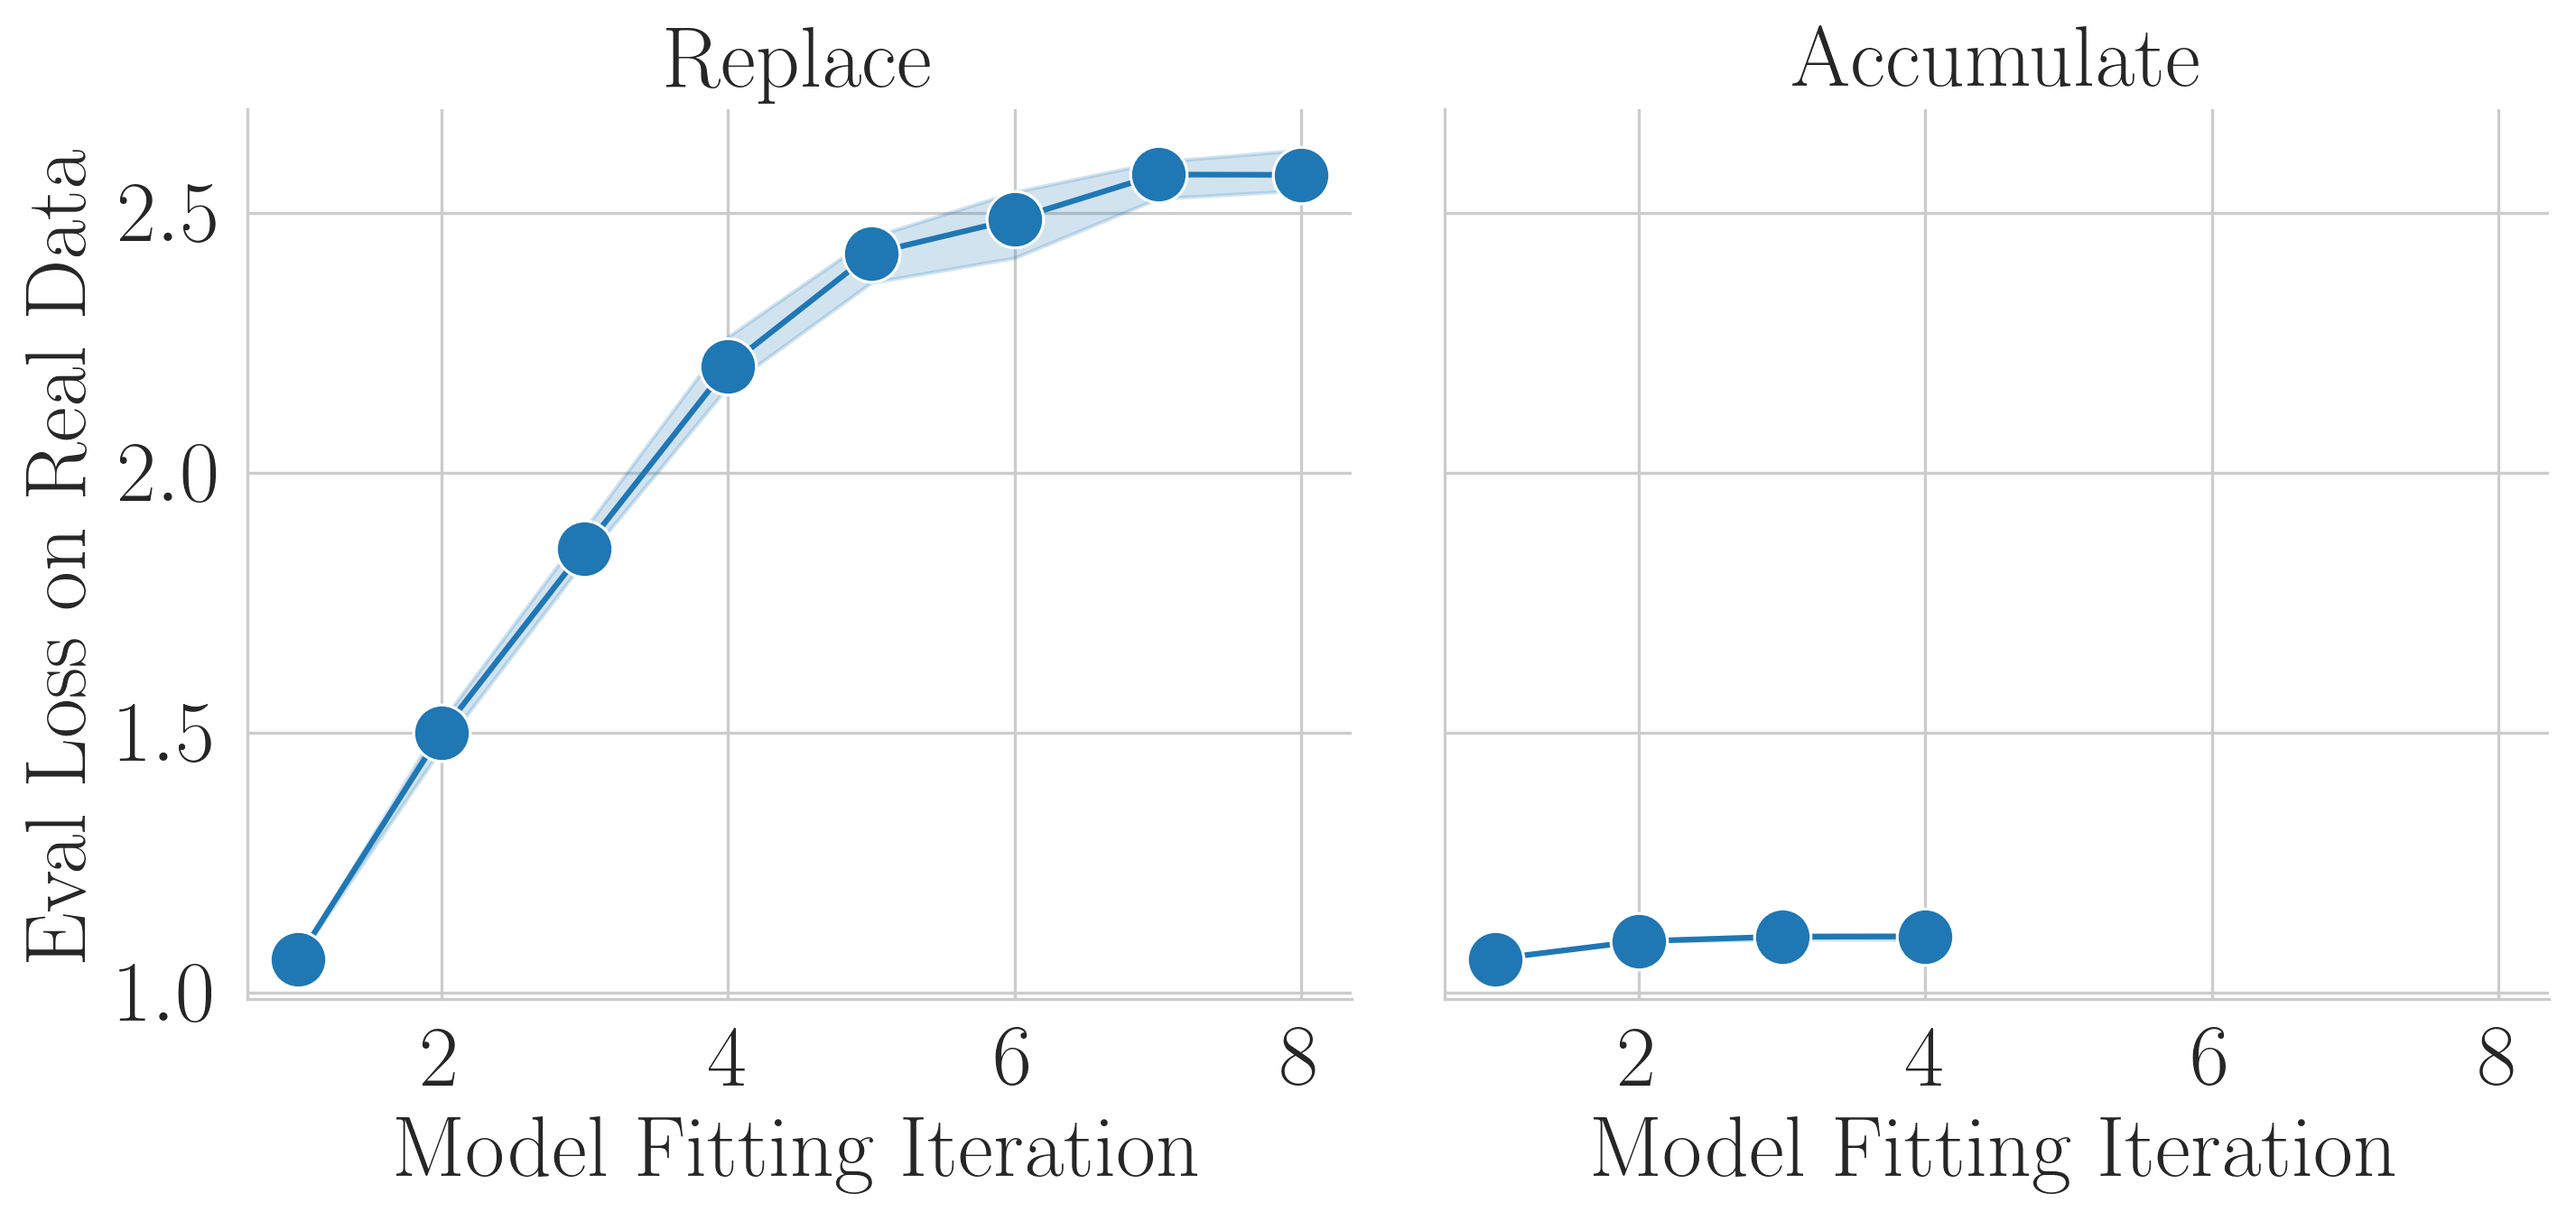
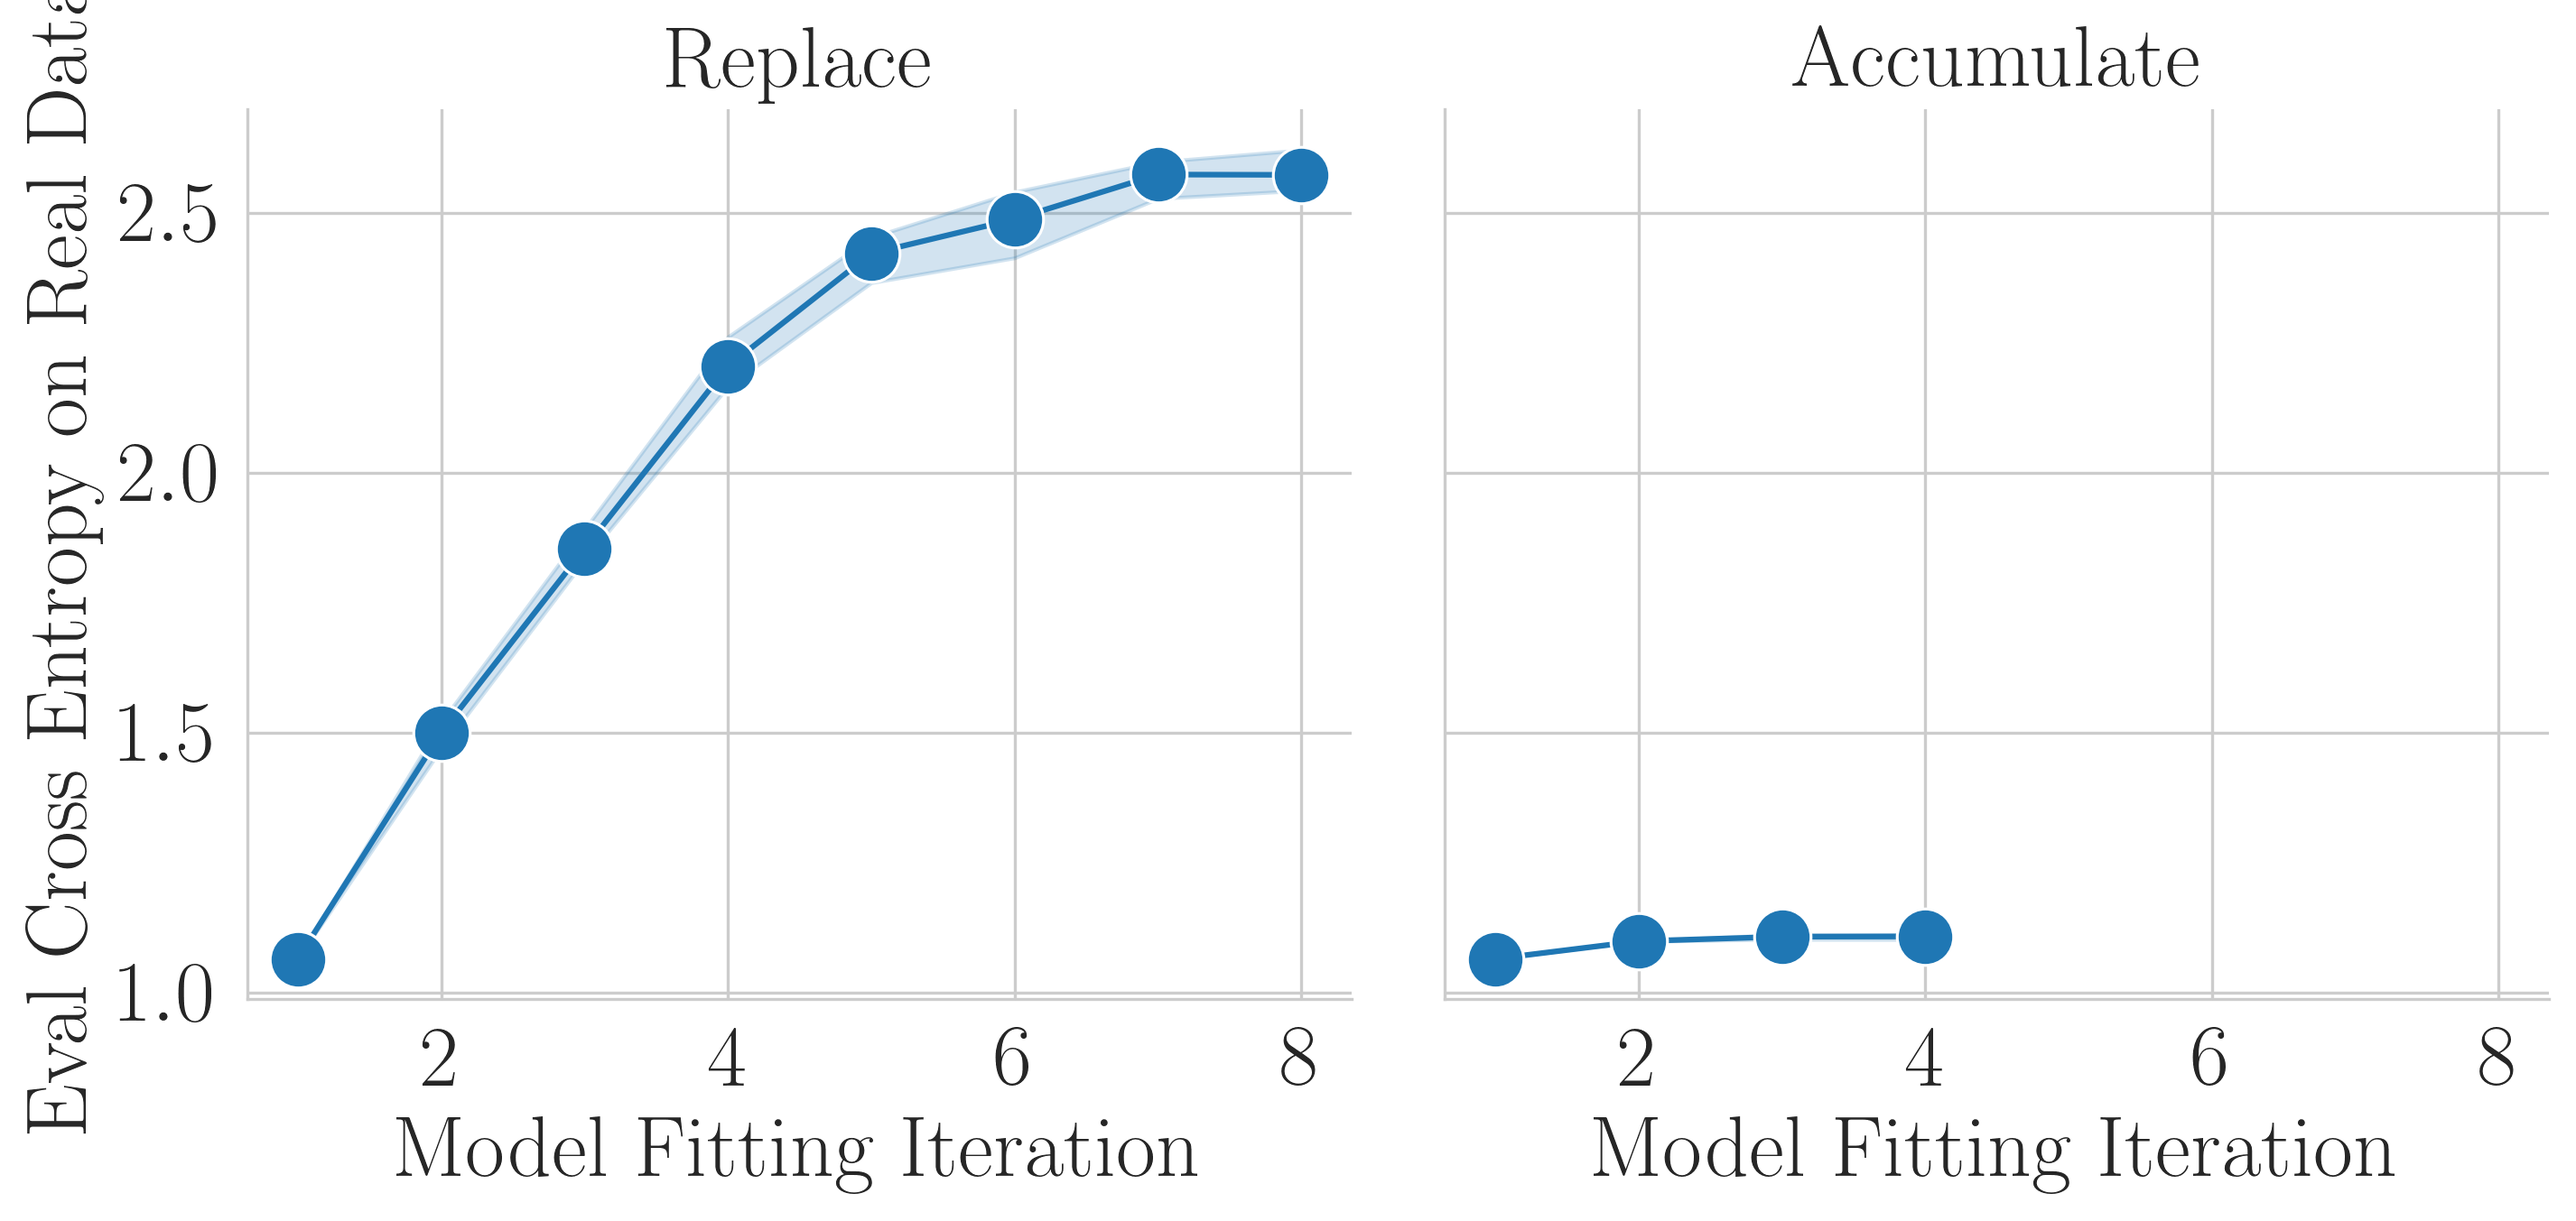
Pushing newest figures for SFT LM

Changed region(s): [[0.0, 0.0, 0.0312, 0.8381], [0.0, 0.8692, 0.0312, 0.9313]]

diff --git a/notebooks/01_sft_language_model/01_sft_language_model.py b/notebooks/01_sft_language_model/01_sft_language_model.py
@@ -85,7 +85,7 @@ g = sns.relplot(
     marker="o",
     markersize=15,
 )
-g.set_axis_labels(y_var="Eval Loss on Real Data")
+g.set_axis_labels(y_var="Eval Cross Entropy on Real Data")
 g.set_titles(col_template="{col_name}")
 src.plot.save_plot_with_multiple_extensions(
     plot_dir=results_dir,
@@ -109,7 +109,7 @@ g = sns.relplot(
     col="Setting",
     hue="Model Fitting Iteration",
 )
-g.set_axis_labels("Epoch", "Eval Loss on Real Data")
+g.set_axis_labels("Epoch", "Eval Cross Entropy on Real Data")
 g.set_titles("{col_name}")
 sns.move_legend(g, "upper left", bbox_to_anchor=(1.0, 1.0))
 src.plot.save_plot_with_multiple_extensions(
